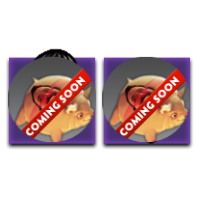
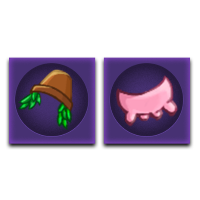
added new cosmetics

diff --git a/testing/initialize-cosmetics.js b/testing/initialize-cosmetics.js
@@ -198,38 +198,15 @@ async function addCosmetics() {
         coins: -1,
         cost_usd: -1,
         rarity: "Mythical",
-      {
-        name: "sfx_opera",
-        type: "SFX",
-        equip_group: "sfx_gaben",
-        coins: -1,
-        cost_usd: -1,
-        rarity: "Common",
       },
-      {
-        name: "spawn_nature",
-        type: "SFX",
-        equip_group: "sfx_gaben",
-        coins: -1,
-        cost_usd: -1,
-        rarity: "Common",
-      },
-      {
-        name: "sfx_old_wizard",
-        type: "SFX",
-        equip_group: "sfx_gaben",
-        coins: -1,
-        cost_usd: -1,
-        rarity: "Common",
-      },
-      {
-        name: "click_cat",
-        type: "ClickFX",
-        coins: -1,
-        cost_usd: -1,
-        equip_group: "click_fx",
-        rarity: "Immortal",
-      },
+      // {
+      //   name: "click_cat",
+      //   type: "ClickFX",
+      //   coins: -1,
+      //   cost_usd: -1,
+      //   equip_group: "click_fx",
+      //   rarity: "Immortal",
+      // },
       {
         // Battle Pass Reward
         name: "avatar_nature",
@@ -239,22 +216,22 @@ async function addCosmetics() {
         cost_usd: -1,
         rarity: "Arcana",
       },
-      {
-        name: "sfx_opera",
-        type: "SFX",
-        equip_group: "sfx_gaben",
-        coins: -1,
-        cost_usd: -1,
-        rarity: "Common",
-      },
-      {
-        name: "sfx_old_wizard",
-        type: "SFX",
-        equip_group: "sfx_gaben",
-        coins: -1,
-        cost_usd: -1,
-        rarity: "Common",
-      },
+      // {
+      //   name: "sfx_opera",
+      //   type: "SFX",
+      //   equip_group: "sfx_gaben",
+      //   coins: -1,
+      //   cost_usd: -1,
+      //   rarity: "Common",
+      // },
+      // {
+      //   name: "sfx_old_wizard",
+      //   type: "SFX",
+      //   equip_group: "sfx_gaben",
+      //   coins: -1,
+      //   cost_usd: -1,
+      //   rarity: "Common",
+      // },
       {
         name: "terrain_gambit",
         type: "Terrain",
@@ -263,30 +240,46 @@ async function addCosmetics() {
         equip_group: "terrain",
         rarity: "Immortal",
       },
-    {
-      name: "spawn_nature",
-      type: "SpawnFX",
-      coins: -1,
-      cost_usd: -1,
-      equip_group: "spawn_fx",
-      rarity: "Immortal",
-    },
-    {
-      name: "spawn_arcane",
-      type: "SpawnFX",
-      coins: -1,
-      cost_usd: -1,
-      equip_group: "spawn_fx",
-      rarity: "Immortal",
-    },
       // {
-      //   name: "chest_god_unique_3",
-      //   type: "Chest",
-      //   coins: 10000,
+      //   name: "spawn_nature",
+      //   type: "SpawnFX",
+      //   coins: -1,
       //   cost_usd: -1,
-      //   equip_group: "",
+      //   equip_group: "spawn_fx",
       //   rarity: "Immortal",
       // },
+      {
+        name: "spawn_arcane",
+        type: "SpawnFX",
+        coins: -1,
+        cost_usd: -1,
+        equip_group: "spawn_fx",
+        rarity: "Immortal",
+      },
+      {
+        name: "chest_god_unique_3",
+        type: "Chest",
+        coins: 10000,
+        cost_usd: -1,
+        equip_group: "",
+        rarity: "Immortal",
+      },
+      {
+        name: "hat_pirate_hat",
+        type: "Avatar Hat",
+        equip_group: "avatar_hat",
+        coins: -1,
+        cost_usd: -1,
+        rarity: "Rare",
+      },
+      {
+        name: "bp_s6",
+        type: "purchased_battle_pass",
+        coins: -1,
+        cost_usd: -1,
+        equip_group: "",
+        rarity: "Immortal",
+      },
     ]);
     console.log("Cosmetics initialized");
   } catch (error) {

diff --git a/testing/data/unique-chest-drops.js b/testing/data/unique-chest-drops.js
@@ -138,6 +138,10 @@ module.exports = {
       rarity: null,
     },
     {
+      cosmetic: "card_roshan",
+      rarity: null,
+    },
+    {
       cosmetic: "card_axe",
       rarity: null,
     },
@@ -150,15 +154,15 @@ module.exports = {
       rarity: null,
     },
     {
-      cosmetic: "card_roshan",
+      cosmetic: "card_spiritBreaker",
       rarity: "rare",
     },
     {
-      cosmetic: "card_spiritBreaker",
+      cosmetic: "card_arcWarden",
       rarity: "very_rare",
     },
     {
-      cosmetic: "card_arcWarden",
+      cosmetic: "card_invoker",
       rarity: "ultra_rare",
     },
   ],

diff --git a/testing/data/cosmetics-list.js b/testing/data/cosmetics-list.js
@@ -444,6 +444,14 @@ module.exports = [
     rarity: "Rare",
   },
   {
+    name: "hat_pirate_hat",
+    type: "Avatar Hat",
+    equip_group: "avatar_hat",
+    coins: -1,
+    cost_usd: -1,
+    rarity: "Rare",
+  },
+  {
     // Chest Drop
     name: "hat_birthday",
     type: "Avatar Hat",
@@ -1142,6 +1150,14 @@ module.exports = [
   },
   {
     name: "bp_s5",
+    type: "purchased_battle_pass",
+    coins: -1,
+    cost_usd: -1,
+    equip_group: "",
+    rarity: "Immortal",
+  },
+  {
+    name: "bp_s6",
     type: "purchased_battle_pass",
     coins: -1,
     cost_usd: -1,

diff --git a/testing/data/emote-packs.js b/testing/data/emote-packs.js
@@ -13,7 +13,7 @@ const packs = {
   emote_pack_tf2_3: ["hat_scout_bat", "hat_demoman_beanie"],
   emote_pack_bp6_1: ["hat_pothead", "hat_udders"],
   emote_pack_bp6_2: ["hat_pineapple", "hat_tiger_mouth"],
-  emote_pack_bp6_3: ["hat_bong_hands", "hat_raccoon"],
+  emote_pack_bp6_3: ["hat_beak", "hat_raccoon"],
   pack_year_of_the_rabbit: [
     "chest_basic",
     "chest_basic",

diff --git a/testing/data/random-drops.js b/testing/data/random-drops.js
@@ -50,6 +50,9 @@ const drops = {
     "hat_super_saiyan",
     "hat_radish_hat",
     "hat_chainsaw_man",
+    "hat_top_hat2",
+    "hat_chopsticks",
+    "hat_pirate_hat",
   ],
 };
 
